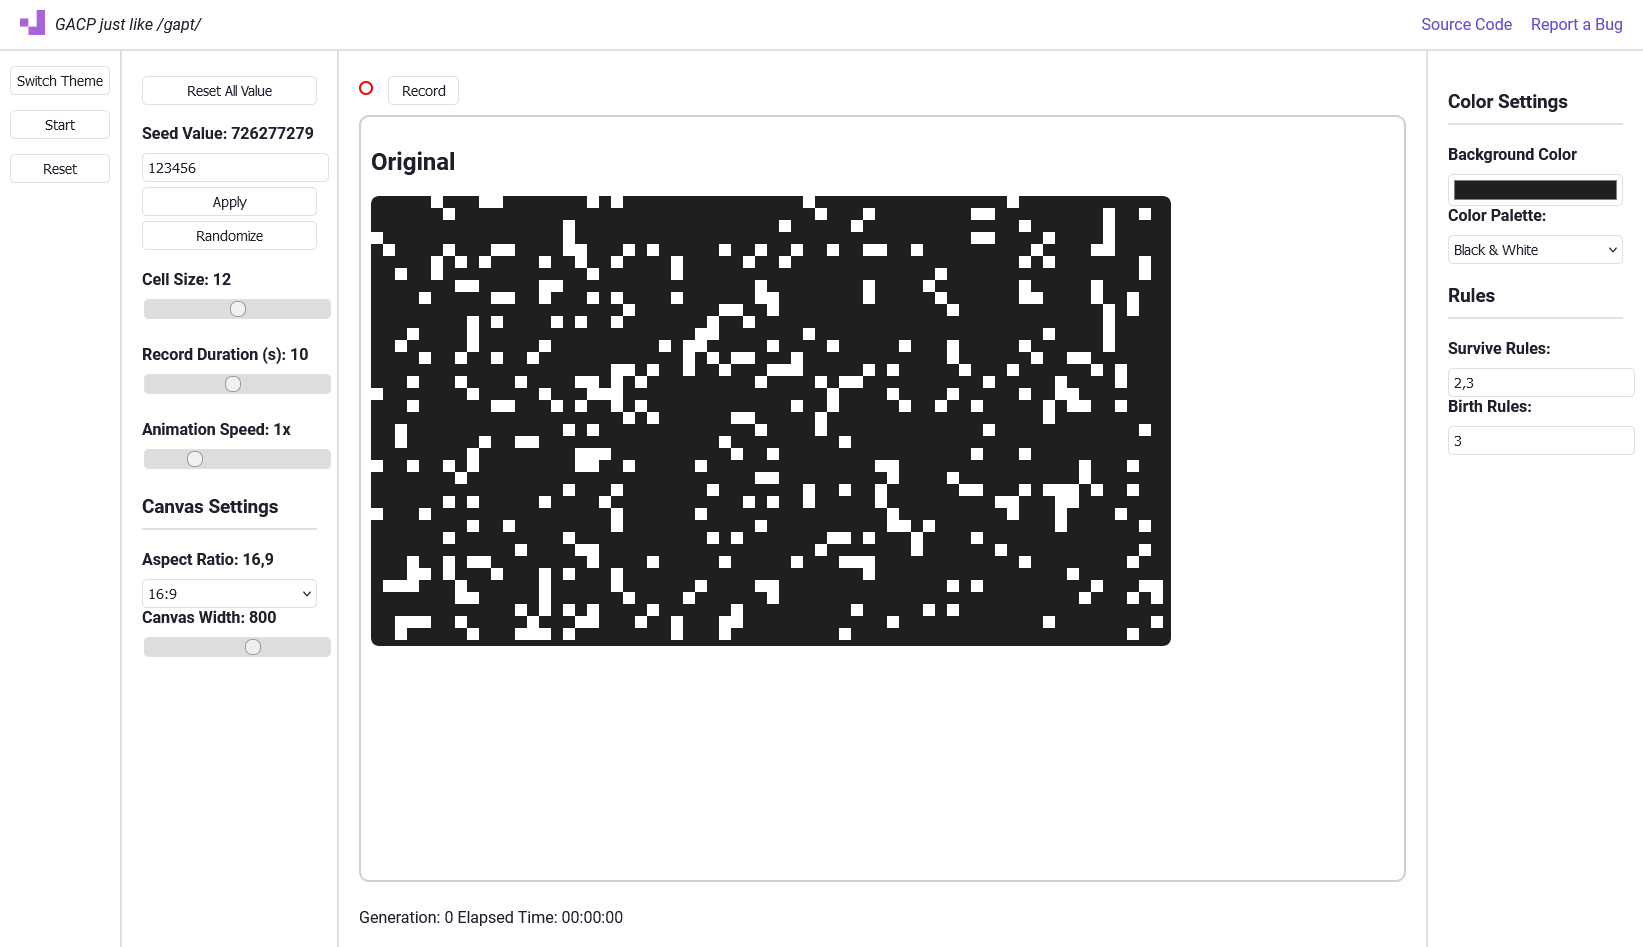
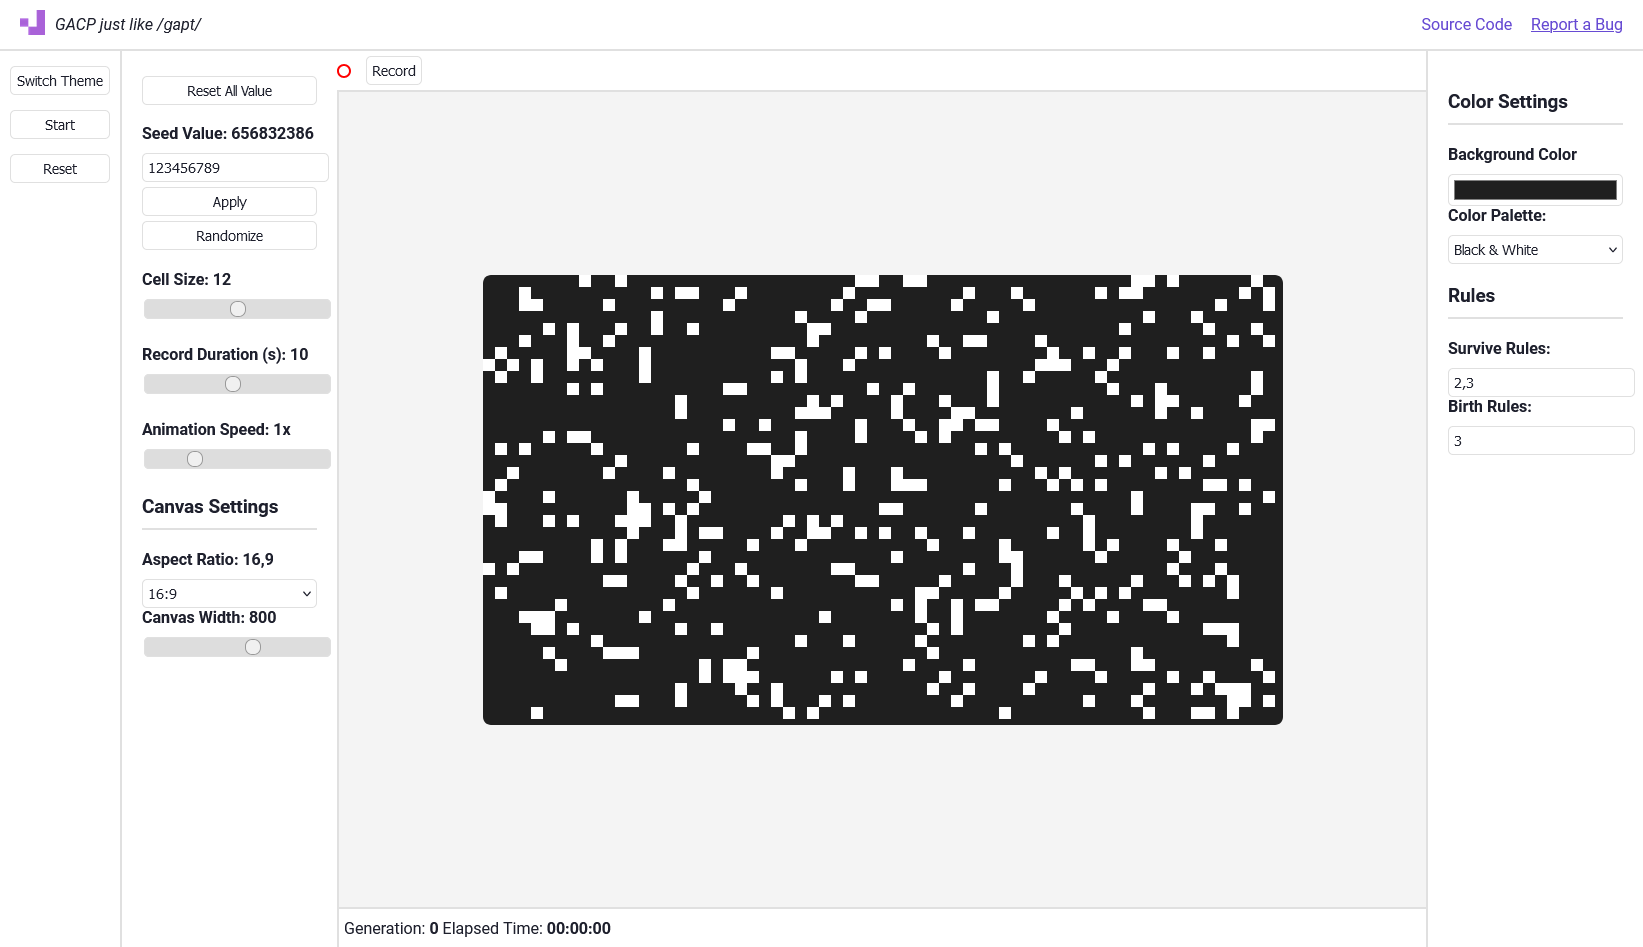
minor fix
fix some bug and working on the 1/1 aspect ratio bug

diff --git a/css/styles.css b/css/styles.css
@@ -128,10 +128,17 @@ button:focus {
 .sidebar {
     background-color: var(--panel);
     padding: 20px;
-    border-left: 2px solid var(--border-color);
     overflow-y: auto;
     max-width: 175px;
     min-width: 175px;
+}
+
+.border-left {
+    border-left: 2px solid var(--border-color);
+}
+
+.border-right {
+    border-right: 2px solid var(--border-color);
 }
 
 .panel {
@@ -140,8 +147,7 @@ button:focus {
 
 .record-header {
     width: 100%;
-    padding-top: 5px;
-    padding-bottom: 5px;
+    padding: 5px;
     display: flex;
     align-items: center;
     gap: 15px;
@@ -205,43 +211,32 @@ h3 {
 }
 
 .main-content {
-    flex-grow: 1;
-    padding-top: 20px;
-    display: flex;
-    flex-direction: column;
-    justify-content: space-between;
-    border-left: 2px solid var(--border-color);
-    height: calc(100% - 60px);
+    width: 100%;
 }
 
 .canvas-container {
     display: flex;
-    justify-content: space-around;
-    align-items: flex-start;
-    flex-grow: 1;
-}
+    justify-content: center;
+    align-items: center;
 
-.canvas-panel {
-    border: 2px solid var(--canvas-border-color);
-    padding: 10px;
-    border-radius: 10px;
-    background-color: var(--panel);
-    width: 100%;
-    height: calc(100% - 30px);
-    margin: 10px;
+    height: 100%;
+    max-height: calc(100% - 82px);
+    width: auto;
+
+    padding: 14px;
+    overflow: auto;
+    box-sizing: border-box;
 }
 
 canvas {
     max-width: 100%;
-    height: auto;
-    display: block;
+    max-height: 100%;
     border-radius: 8px;
 }
 
 footer {
     height: 20px;
     padding: 10px 5px;
-    margin-top: 20px;
     font-size: 16px;
     color: var(--text-color);
     background-color: var(--panel);

diff --git a/app.html b/app.html
@@ -35,7 +35,7 @@
         <!-- <button id="importSettingsButton">Import Settings</button> -->
     </nav>
 
-    <aside class="sidebar">
+    <aside class="sidebar border-left border-right">
         <section class="controls">
             <button id="resetConfig">Reset All Value</button>
             <br>
@@ -78,7 +78,7 @@
     </aside>
 
 
-    <div style="width: 100%;">
+    <div class="main-content">
         <div class="panel record-header">
             <span class="recording-indicator" id="recordingIndicator"></span>
             <div>
@@ -86,21 +86,18 @@
             </div>
         </div>
 
-        <section class="main-content">
+        <div style="height: 100%;max-height: 100%;">
             <div class="canvas-container">
-                <div class="canvas-panel">
-                    <h2>Original</h2>
-                    <canvas id="originalCanvas"></canvas>
-                </div>
+                <canvas id="originalCanvas"></canvas>
             </div>
             <footer>
                 <span>Generation: <strong><span id="generationCount">0</span></strong></span>
                 <span>Elapsed Time: <strong><span id="elapsedTime">00:00:00</span></strong></span>
             </footer>
-        </section>
+        </div>
     </div>
 
-    <aside class="sidebar">
+    <aside class="sidebar border-left">
         <section class="controls">
             <h3>Color Settings</h3>
             <div class="control-group">

diff --git a/js/ui/controls.js b/js/ui/controls.js
@@ -27,7 +27,6 @@ document.getElementById('aspectRatio').addEventListener('change', (e) => {
 function updateAspectRatio(target) {
     ASPECT_RATIO = parseInt(target[0]) / parseInt(target[1]);
     document.getElementById('aspectRatioValue').innerText = target;
-    updateGridDimensions();
 }
 
 document.getElementById('canvasWidth').addEventListener('input', (e) => {
@@ -39,7 +38,6 @@ document.getElementById('canvasWidth').addEventListener('input', (e) => {
 function updateCanvasWidth(target) {
     CANVAS_WIDTH = parseInt(target);
     document.getElementById('canvasWidthValue').innerText = target;
-    updateGridDimensions();
 }
 
 document.getElementById('backgroundColor').addEventListener('input', (e) => {
